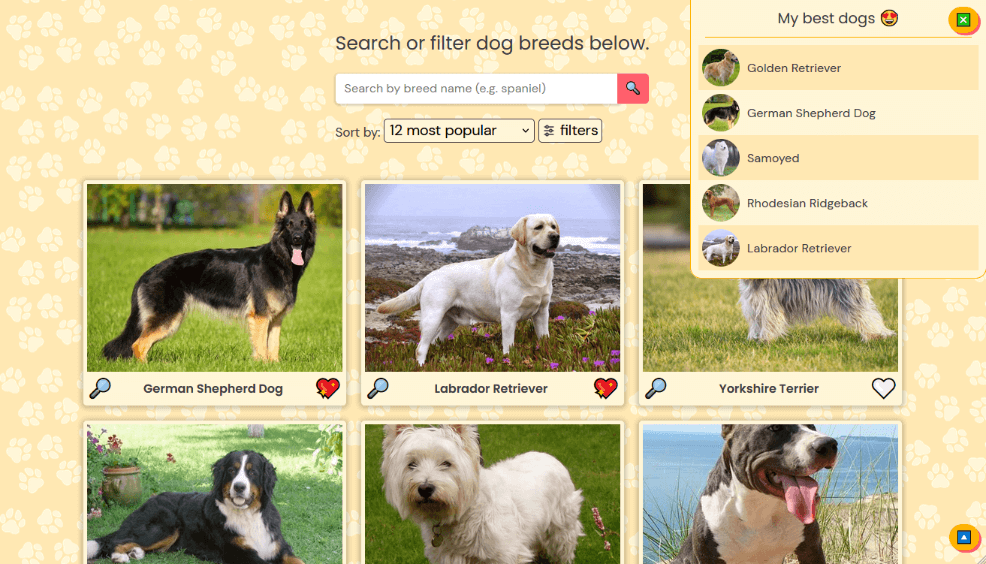
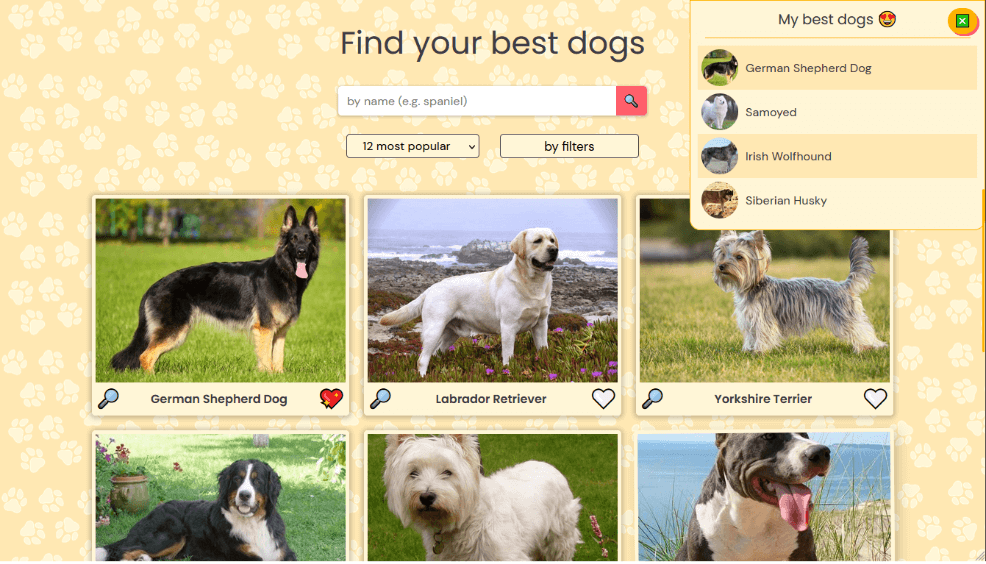
cleaned js code

diff --git a/src/js/config.js b/src/js/config.js
@@ -14,14 +14,15 @@ export const BODY = document.querySelector('body');
 
 export const MAIN = document.querySelector('#main');
 
+export const DOGS_CONTAINER = document.querySelector('.dogs__container');
+
 export const DOGS_FORM = document.querySelector('#dogs__form');
 
-export const DOGS_CONTAINER = document.querySelector('.dogs__container');
 export const DOGS_LIST = document.querySelector('.dogs__list');
 
-export const INPUT_BOX = document.querySelector('input');
-
 export const TOP__DOGS = document.querySelector('#dogs__select');
+
+export const INPUT_BOX = document.querySelector('input');
 
 export const AUTOCOMPLETE_INPUT = document.querySelector(
   '.autocomplete__input'
@@ -30,21 +31,24 @@ export const AUTOCOMPLETE_INPUT = document.querySelector(
 export const LOADER = document.querySelector('.loader__container');
 
 export const MODAL = document.querySelector('.modal__container');
+
 export const MODAL_LIST = document.querySelector('.modal__list');
 
 export const BTN_SEARCH = document.querySelector('#search__button');
 
 export const BTN_BASKET = document.querySelector('.btn--hamburger');
 
+export const SELECT_BUTTON = document.querySelector('.select__button');
+
 export const BASKET = document.querySelector('.basket');
+
 export const BASKET_WRAPPER = document.querySelector('.basket__list--wrapper');
+
 export const BASKET_ITEMS = document.querySelector('.basket__items');
 
 export const PAGINATION_CONTAINER = document.querySelector(
   '.pagination__container'
 );
-
-export const SELECT_BUTTON = document.querySelector('.select__button');
 
 // ==========================================================================
 // TIMEOUT time is sec

diff --git a/src/js/views/paginationView.js b/src/js/views/paginationView.js
@@ -5,10 +5,11 @@ import { PAGINATION_CONTAINER } from '../config.js';
 // PAGINATION VIEW
 // ==========================================================================
 
+// get current page numbers markup
 function getPaginationMarkup(filteredData, curPage = model.state.page) {
   const numPages = Math.ceil(filteredData.length / model.state.resultsPerPage);
-  // Page 1 and other pages
 
+  // Page 1 and other pages
   if (curPage === 1 && numPages > 1) {
     return `
     <a href="#dogs" class="pagination__btn--up" title="go up" role="button">🔼</a>
@@ -19,8 +20,8 @@ function getPaginationMarkup(filteredData, curPage = model.state.page) {
         </button>
         `;
   }
-  // Last page
 
+  // Last page
   if (curPage === numPages && numPages > 1) {
     return `
 
@@ -32,6 +33,7 @@ function getPaginationMarkup(filteredData, curPage = model.state.page) {
         <a href="#dogs" class="pagination__btn--up" title="go up" role="button">🔼</a>
         `;
   }
+
   // Other page
   if (curPage < numPages) {
     return `
@@ -50,8 +52,9 @@ function getPaginationMarkup(filteredData, curPage = model.state.page) {
   }
 
   // Page 1 and NO other pages
-  return '';
-  //
+  return `
+  <a href="#dogs" class="pagination__btn--up" title="go up" role="button">🔼</a>
+  `;
 }
 
 export function showPaginationMarkup(filteredData, goToPage) {

diff --git a/src/js/model.js b/src/js/model.js
@@ -132,7 +132,9 @@ export async function fetchImgUrl(dog) {
         if (data.status === 429) {
           throw new Error(`Too many Requests! 💩 Try again later!`);
         }
+
         const result = await data.json();
+
         dog.imgUrl = result.url;
       }
 
@@ -142,6 +144,7 @@ export async function fetchImgUrl(dog) {
       ).style.backgroundImage = `url('${dog.imgUrl}')`;
 
       listItem.querySelector('.loader').classList.add('hidden');
+
       break;
     } catch (err) {
       currentTry++;

diff --git a/src/scss/components/_pagination.scss b/src/scss/components/_pagination.scss
@@ -10,6 +10,7 @@
     grid-auto-flow: column;
     align-items: center;
     width: 25rem;
+    height: 3.5rem;
     background-color: var(--color-primary--light);
     padding: 0.4rem 0.5rem;
     border-radius: 5px;
@@ -41,9 +42,8 @@
     margin-right: auto;
     left: 0;
     right: 0;
-    top: 0.4rem;
     text-align: center;
-    height: 3.5rem;
+    font-size: 2rem;
     z-index: var(--z-index-popup);
   }
 }

diff --git a/index.html b/index.html
@@ -111,7 +111,11 @@
           </li>
         </ul>
       </section>
-      <div class="pagination__container"></div>
+      <div class="pagination__container">
+        <a href="#dogs" class="pagination__btn--up" title="go up" role="button"
+          >🔼</a
+        >
+      </div>
       <div class="modal__container hidden">
         <div class="modal__list"></div>
       </div>

diff --git a/src/js/views/selectView.js b/src/js/views/selectView.js
@@ -18,6 +18,7 @@ export async function showTopDogs(array = model.state.popular) {
   await generateMarkup(model.state.dogs);
   await getImgUrl(model.state.dogs);
   DOGS_LIST.classList.remove('centered--one');
+  showPaginationMarkup(model.state.dogs);
 }
 
 // show sorted dogs

diff --git a/src/js/controller.js b/src/js/controller.js
@@ -41,7 +41,7 @@ export async function showDogItem(breed) {
   getImgUrl(model.state.dogs);
 }
 
-// hadnle pagination
+// handle pagination
 export function controlPagination(goToPage) {
   DOGS_LIST.textContent = '';
   const searchResultsPage = getSearchResultsPage(

diff --git a/src/js/views/heartView.js b/src/js/views/heartView.js
@@ -44,8 +44,6 @@ export function handleHeart(e) {
     return;
   }
 
-  // ?
-
   if (model.state.likedDogs.find((el) => el.id === likedDog.id)) {
     const filteredLikedDogs = model.state.likedDogs.filter(
       (el) => el.id !== likedDog.id
